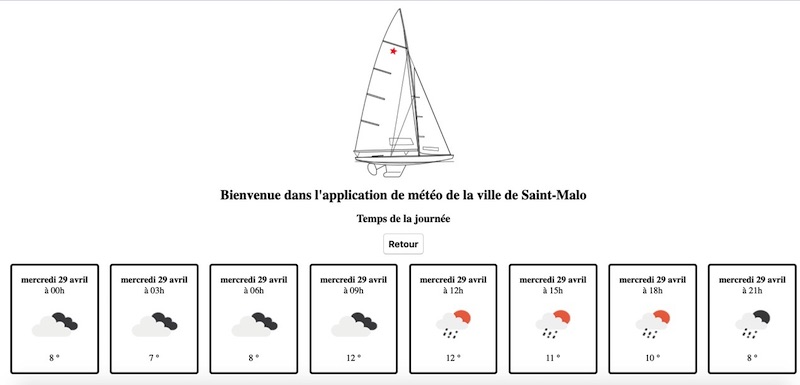
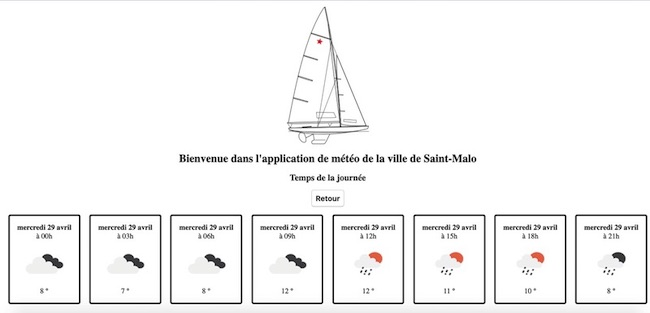
update II readme

diff --git a/README.md b/README.md
@@ -8,11 +8,11 @@
 
 Welcome to Saint-Malo Weather-App ☀☀
 
-<img alt="screesnhot" src="./src/assets/screenshotweathercard copie.jpg" />
+<img  align="center" alt="screesnhot" src="./src/assets/screenshotweathercard copie.jpg" />
 
 The web-app Saint-Malo weather-app is a single page angular application which give you the weather for the 5 upcoming days. When the user clicks a weather card, a detail weather 3 hours forecast is displayed.  🏖⛵🏄
 
-<img alt="screesnhot" src="./src/assets/screenshotdetailledweathercard copie.jpg" />
+<img  align="center" alt="screesnhot" src="./src/assets/screenshotdetailledweathercard copie.jpg" />
 
 ## This app uses 🍁🍁
 
